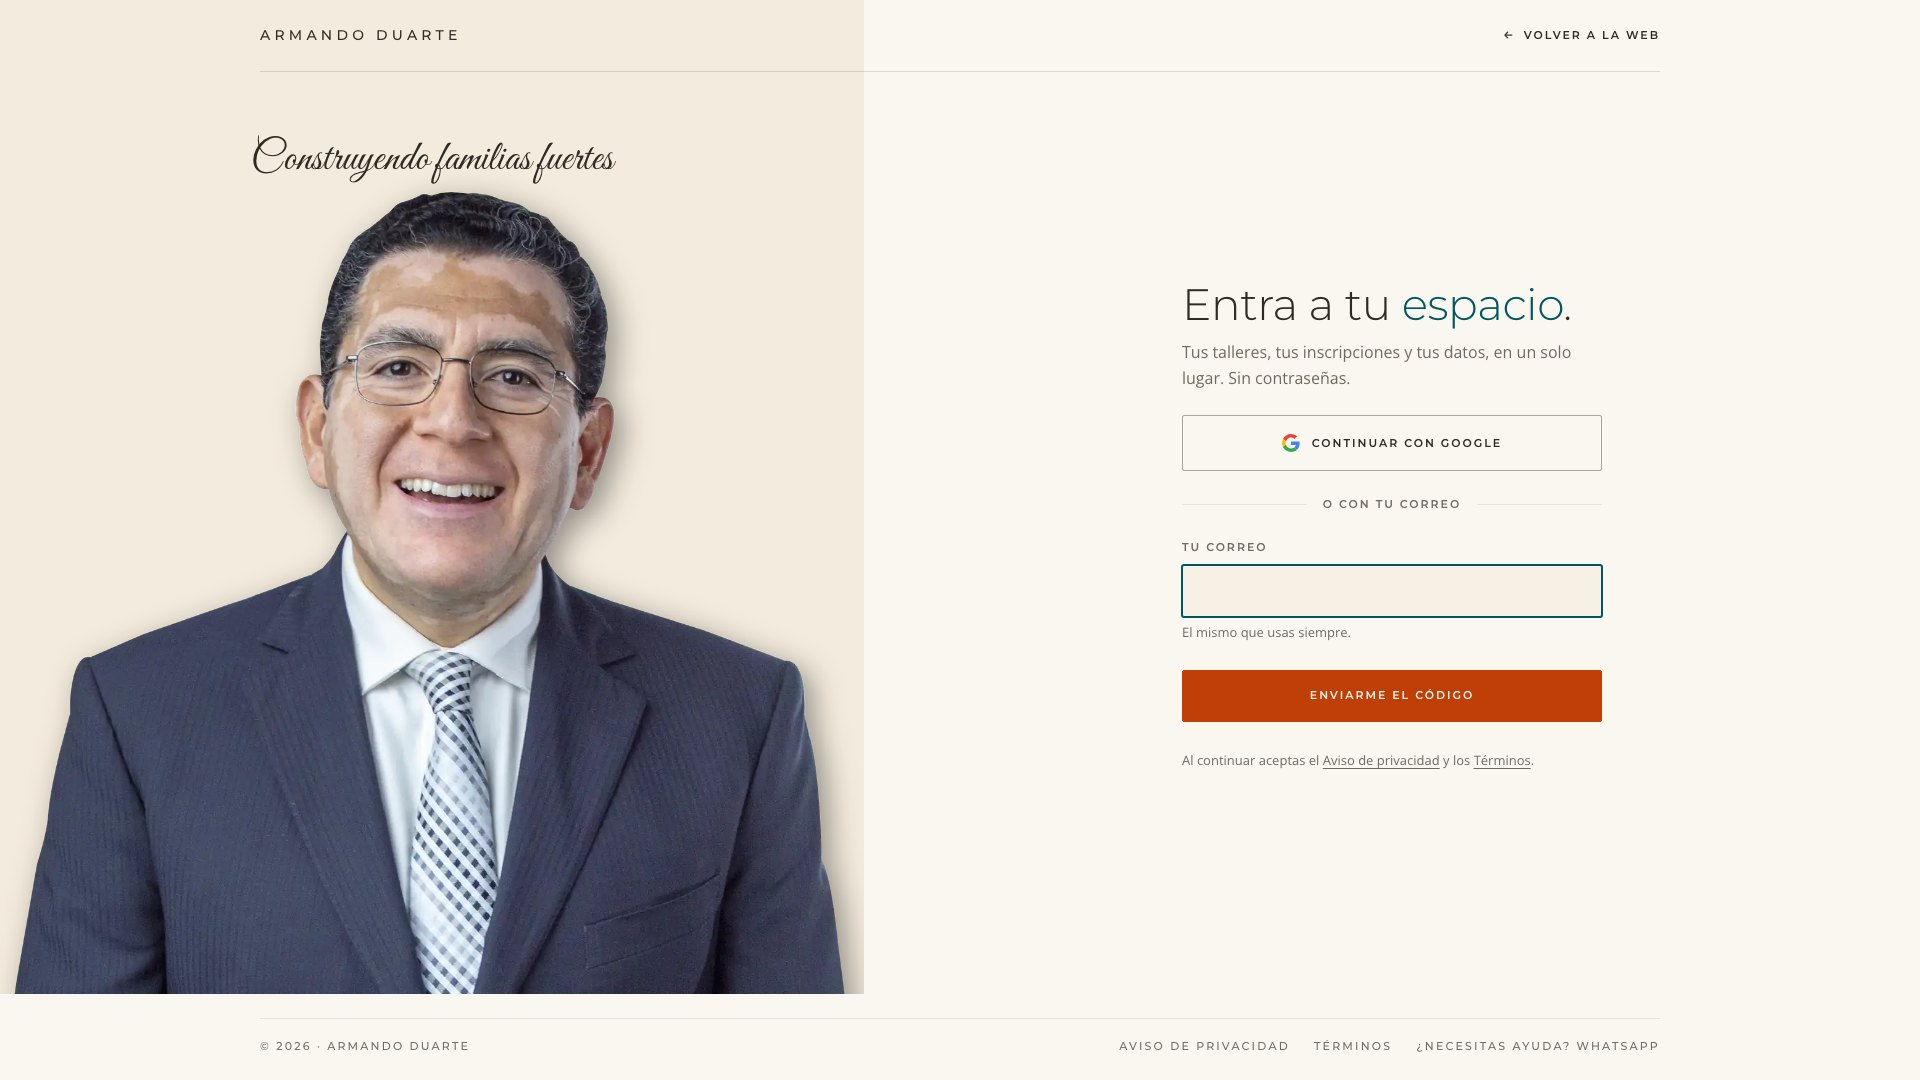
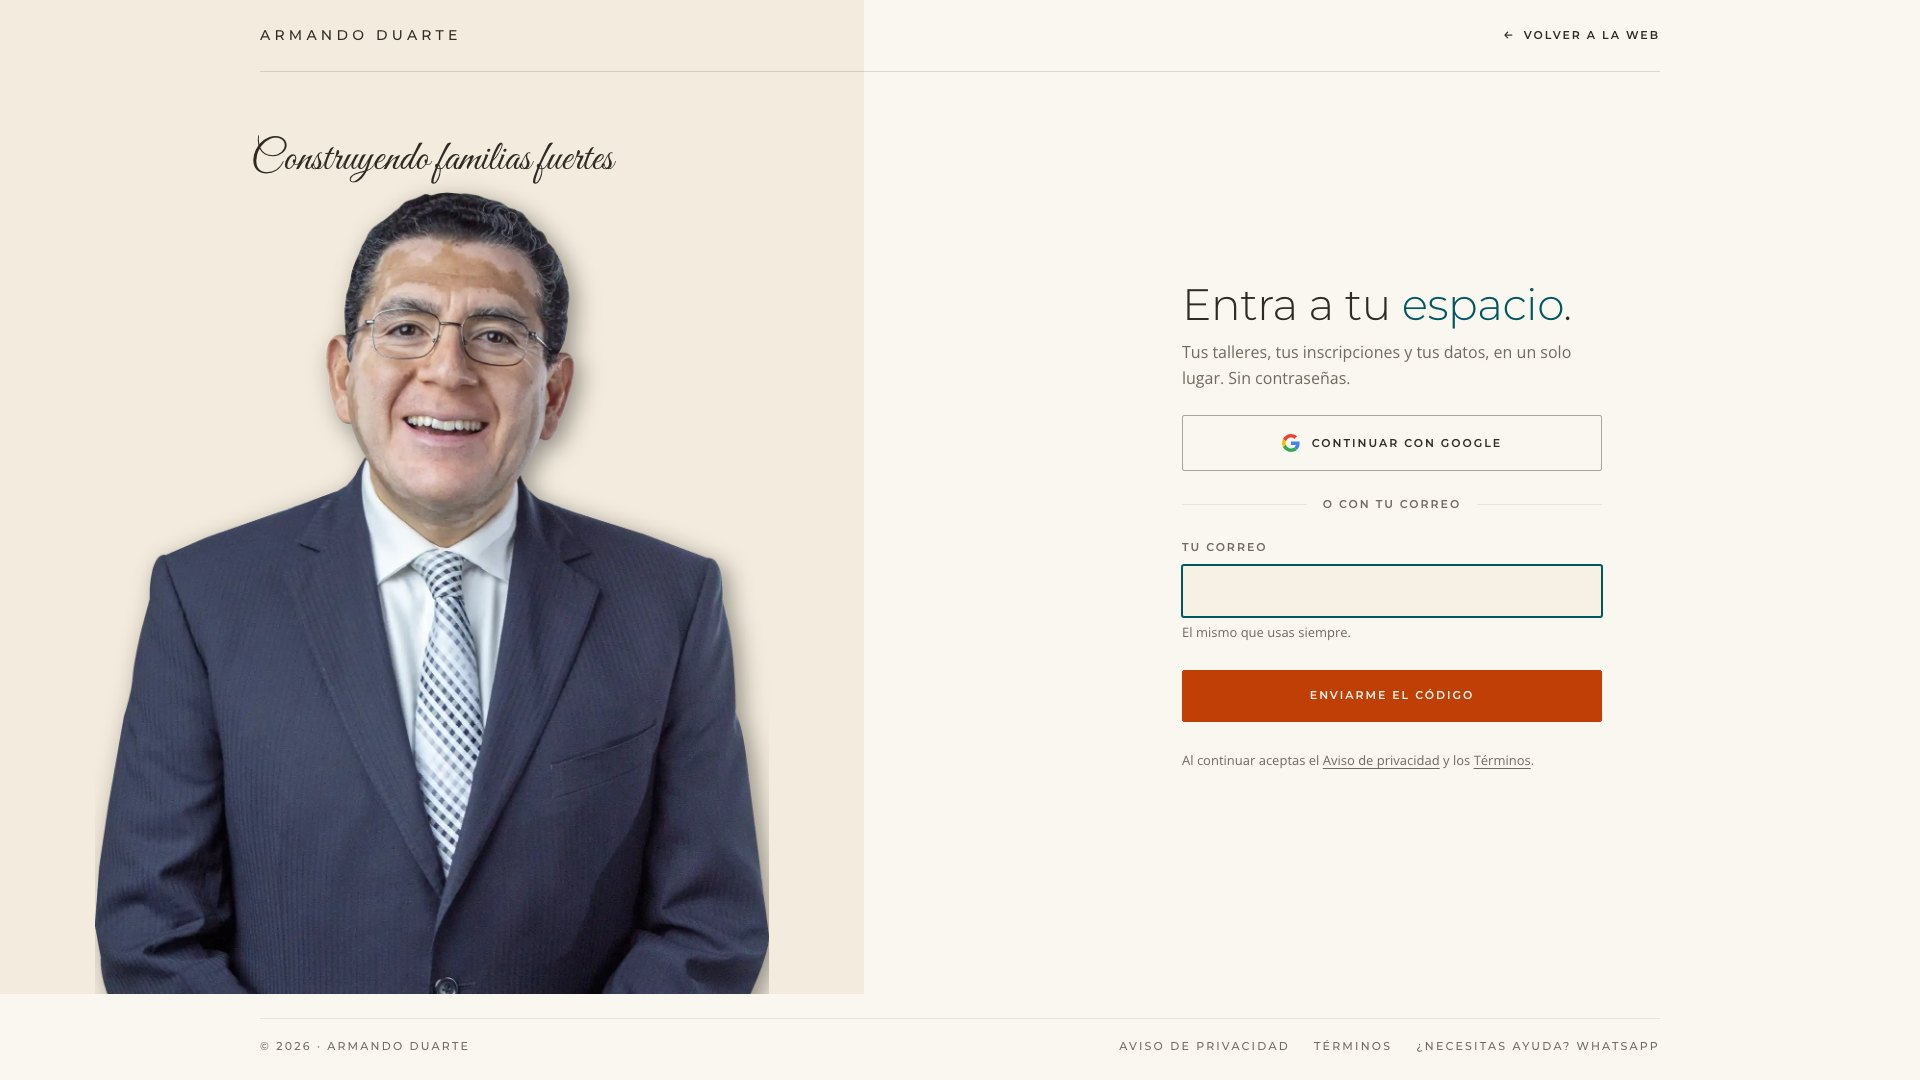
fix(familia): /entrar con Armando al 78 % del panel, centrado (segundo ajuste del #46)
La silueta de-pie pasa del ancho entero al 78 % del panel, centrada: los
brazos terminan solos, con su alfa, dentro del cálido. La cabeza sigue con la
fila 55 en y=192 (el margin-top es ahora 55/1400 del 78 %) y el corte sigue
siendo el borde de abajo del panel. 1440: 505 px desde x=71; 1920: 674 desde 95.

Test: ancho = 78 % ±1 y centrado ±1. Mutaciones: 100 % → cae; 78 % sin
centrar → cae.

Changed region(s): [[0.0, 0.1833, 0.4688, 0.9472]]

diff --git a/apps/familia/e2e/entrar-armando.spec.ts b/apps/familia/e2e/entrar-armando.spec.ts
@@ -11,7 +11,8 @@ import { PUERTO } from '../playwright.config';
  *     en rectángulo —que dejaba a la vista los cortes de los brazos—;
  *   · **la fila 55 del archivo** (donde arranca el pelo) cae en el borde de
  *     arriba de la figura, ±1 px;
- *   · el ancho de la imagen = el ancho del panel, ±1 px;
+ *   · el ancho de la imagen = el 78 % del ancho del panel, ±1 px, y centrada
+ *     (auditoría del PR #46: así los brazos terminan dentro del panel);
  *   · la figura llega al borde de abajo del panel y la imagen sigue más abajo:
  *     **el corte es el borde del panel**;
  *   · **la cara entera**: de la fila 55 a la 755 (escaladas) queda dentro del
@@ -81,8 +82,11 @@ for (const vp of VIEWPORTS) {
     const escala = m.img.height / ALTO_DEL_ARCHIVO;
     const pelo = m.img.top + FILA_DEL_PELO * escala;
     expect(Math.abs(pelo - m.figura.top), `la fila ${FILA_DEL_PELO} (el pelo) cae en ${pelo.toFixed(1)}, el borde de la figura en ${m.figura.top.toFixed(1)}`).toBeLessThanOrEqual(1);
-    expect(Math.abs(m.img.width - m.panel.width), `la foto mide ${m.img.width.toFixed(1)} de ancho y el panel ${m.panel.width.toFixed(1)}`).toBeLessThanOrEqual(1);
-    expect(Math.abs(m.img.left - m.panel.left), 'la foto no arranca en el borde del panel').toBeLessThanOrEqual(1);
+    expect(Math.abs(m.img.width - 0.78 * m.panel.width), `la foto mide ${m.img.width.toFixed(1)} de ancho y el 78 % del panel es ${(0.78 * m.panel.width).toFixed(1)}`).toBeLessThanOrEqual(1);
+    expect(
+      Math.abs((m.img.left + m.img.right) / 2 - (m.panel.left + m.panel.right) / 2),
+      'la foto no está centrada en el panel',
+    ).toBeLessThanOrEqual(1);
 
     expect(Math.abs(m.figura.bottom - m.panel.bottom), `la figura termina en ${m.figura.bottom}, el panel en ${m.panel.bottom}`).toBeLessThanOrEqual(1);
     expect(m.recorta, 'el panel tiene que recortar: el corte de abajo es su borde').toBe('hidden');
@@ -93,6 +97,6 @@ for (const vp of VIEWPORTS) {
 
     expect(m.firma.bottom, `la firma (${m.firma.top.toFixed(0)}–${m.firma.bottom.toFixed(0)}) se cruza con Armando (desde ${m.figura.top.toFixed(0)})`).toBeLessThanOrEqual(m.figura.top);
 
-    console.log(`${vp.width}: foto ${m.img.width.toFixed(0)} de ancho (panel ${m.panel.width.toFixed(0)}) · pelo y=${pelo.toFixed(1)} · figura ${m.figura.top.toFixed(0)}–${m.figura.bottom.toFixed(0)} · cara hasta ${finDeLaCara.toFixed(0)} · firma ${m.firma.top.toFixed(0)}–${m.firma.bottom.toFixed(0)}`);
+    console.log(`${vp.width}: foto ${m.img.width.toFixed(0)} de ancho (panel ${m.panel.width.toFixed(0)}, ${(100 * m.img.width / m.panel.width).toFixed(1)} %) desde x=${m.img.left.toFixed(0)} · pelo y=${pelo.toFixed(1)} · figura ${m.figura.top.toFixed(0)}–${m.figura.bottom.toFixed(0)} · cara hasta ${finDeLaCara.toFixed(0)} · firma ${m.firma.top.toFixed(0)}–${m.firma.bottom.toFixed(0)}`);
   });
 }

diff --git a/apps/familia/src/estilos.css b/apps/familia/src/estilos.css
@@ -120,11 +120,14 @@ img,svg{display:block;max-width:100%}
    · la figura arranca en **y = 192** —la línea de la cabecera (72) más los
      120 px que dejan pasar la firma, que termina en el 172 a 1440 y en el 183
      a 1920— y llega al borde de abajo del panel;
-   · la imagen ocupa **el ancho del panel** y su alto sale del ancho;
+   · la imagen ocupa **el 78 % del ancho del panel, centrada** (auditoría del
+     PR #46): a todo el ancho los brazos se salían por los costados; al 78 %
+     terminan solos, con su alfa, dentro del cálido. Su alto sale del ancho;
    · **la fila 55 del archivo** (donde arranca el pelo: 30–54 es un halo de
      alfa ≤ 30, medido en la #28 A) cae en el borde de arriba de la figura.
-     Por eso `margin-top` negativo de 55/1400 **del ancho** —un margen en %
-     se mide sobre el ancho del contenedor, que es el del panel— y no
+     Por eso `margin-top` negativo de 55/1400 **del ancho de la foto** (el
+     78 % del panel: un margen en % se mide sobre el ancho del contenedor, que
+     es el del panel) y no
      `object-position: top`, que dejaría el halo arriba y el pelo 25 px más
      abajo;
    · el halo (filas 0–54) queda **por encima** de la figura, sin recortar:
@@ -139,7 +142,7 @@ img,svg{display:block;max-width:100%}
 @media (min-width:1100px){
   .marco--con-armando .panel{position:relative}
   .marco--con-armando .panel__foto{position:absolute;top:calc(72px + 120px);bottom:0;left:0;right:0;margin-top:0}
-  .marco--con-armando .panel__armando{position:absolute;top:0;left:0;width:100%;height:auto;margin-top:calc(-100% * 55 / 1400)}
+  .marco--con-armando .panel__armando{position:absolute;top:0;left:11%;width:78%;height:auto;margin-top:calc(-78% * 55 / 1400)}
 }
 
 .titulo{font-family:var(--display);font-weight:300;font-size:clamp(30px,3.4vw,44px);line-height:1.1;letter-spacing:-.01em;color:var(--tinta);text-wrap:balance}

diff --git a/docs/informes/28-b/LEEME.md b/docs/informes/28-b/LEEME.md
@@ -7,15 +7,15 @@ Capturas: `entrar-1440-antes.jpg`, `entrar-1440-despues.jpg` y `entrar-1920-desp
 - **La foto es `de-pie-1400.webp`**, la silueta con alfa de `#quien` (el mismo archivo que la web, copiado a `apps/familia/public`), en lugar del busto recortado en rectángulo. Se fue `medio-cuerpo-900.webp`, que ya no usaba nadie. Con `de-pie` no hay cortes rectos en los brazos ni restos de silla.
 - **El encuadre:**
   - la figura arranca en **y = 192**: la línea de la cabecera (72) más 120 px, debajo de la firma;
-  - llega al borde de abajo del panel, y la foto ocupa **el ancho del panel**;
+  - llega al borde de abajo del panel, y la foto ocupa **el 78 % del ancho del panel, centrada** (segundo ajuste del CEO: así los brazos terminan solos, con su alfa, dentro del cálido);
   - **la fila 55 del archivo** (donde arranca el pelo) cae justo en el 192;
   - el panel corta la foto abajo.
 - La clase pasó de `panel__busto` a `panel__armando`, con el test de Vitest al día.
 
 | | foto | pelo (fila 55) | cara hasta (fila 755) | firma | panel |
 |---|---|---|---|---|---|
-| 1440×900 | 648 de ancho | 192 | 516 | 126–172 | 0–814 |
-| 1920×1080 | 864 de ancho | 192 | 624 | 137–183 | 0–994 |
+| 1440×900 | 505 de ancho (78,0 %), desde x = 71 | 192 | 445 | 126–172 | 0–814 |
+| 1920×1080 | 674 de ancho (78,0 %), desde x = 95 | 192 | 529 | 137–183 | 0–994 |
 
 ## Dos cosas distintas de lo que decía la corrección, dichas
 
@@ -26,7 +26,7 @@ Capturas: `entrar-1440-antes.jpg`, `entrar-1440-despues.jpg` y `entrar-1920-desp
 
 `apps/familia/e2e/entrar-armando.spec.ts`, a 1440 y 1920. Comprueba:
 - que la foto es `de-pie` (1400×2791, sin deformar);
-- que la fila 55 cae en el borde de la figura (±1) y que la foto mide el ancho del panel (±1);
+- que la fila 55 cae en el borde de la figura (±1) y que la foto mide el 78 % del ancho del panel (±1) y está centrada (±1);
 - que la figura llega al borde del panel y que la foto sigue de largo (el corte es del panel, que recorta);
 - que la cara entera (filas 55 a 755) queda dentro del panel;
 - que la firma termina antes del pelo.
@@ -35,9 +35,15 @@ Capturas: `entrar-1440-antes.jpg`, `entrar-1440-despues.jpg` y `entrar-1920-desp
 |---|---|
 | volver al busto | «la foto del panel tiene que ser `de-pie`, no el busto» |
 | sin el `margin-top` de la fila 55 | «la fila 55 (el pelo) cae en 217,5 (1440) / 225,9 (1920), el borde de la figura en 192» |
+| la foto al 100 % del panel | «la foto mide 648 de ancho y el 78 % del panel es 505,4» (1920: 864 contra 673,9) |
+| al 78 % pero sin centrar (`left:0`) | «la foto no está centrada en el panel» |
 | el panel sin `overflow:hidden` | «el panel tiene que recortar: el corte de abajo es su borde» (lo caza el estilo computado, no lo pintado) |
 
-En los tres casos, al devolver el archivo volvió a verde.
+En todos los casos, al devolver el archivo volvió a verde.
+
+## Visto en la captura, dicho
+
+- Los codos tocan casi el borde del archivo: a la derecha la silueta llega a la columna 1399 cerca de la fila 1600 (y ≈ 750 a 1440). Ahí el borde de la foto es recto en unos pocos píxeles. Es del archivo (igual en `#quien`); al 78 % queda dentro del cálido y apenas se nota.
 
 ## Pendiente
 
